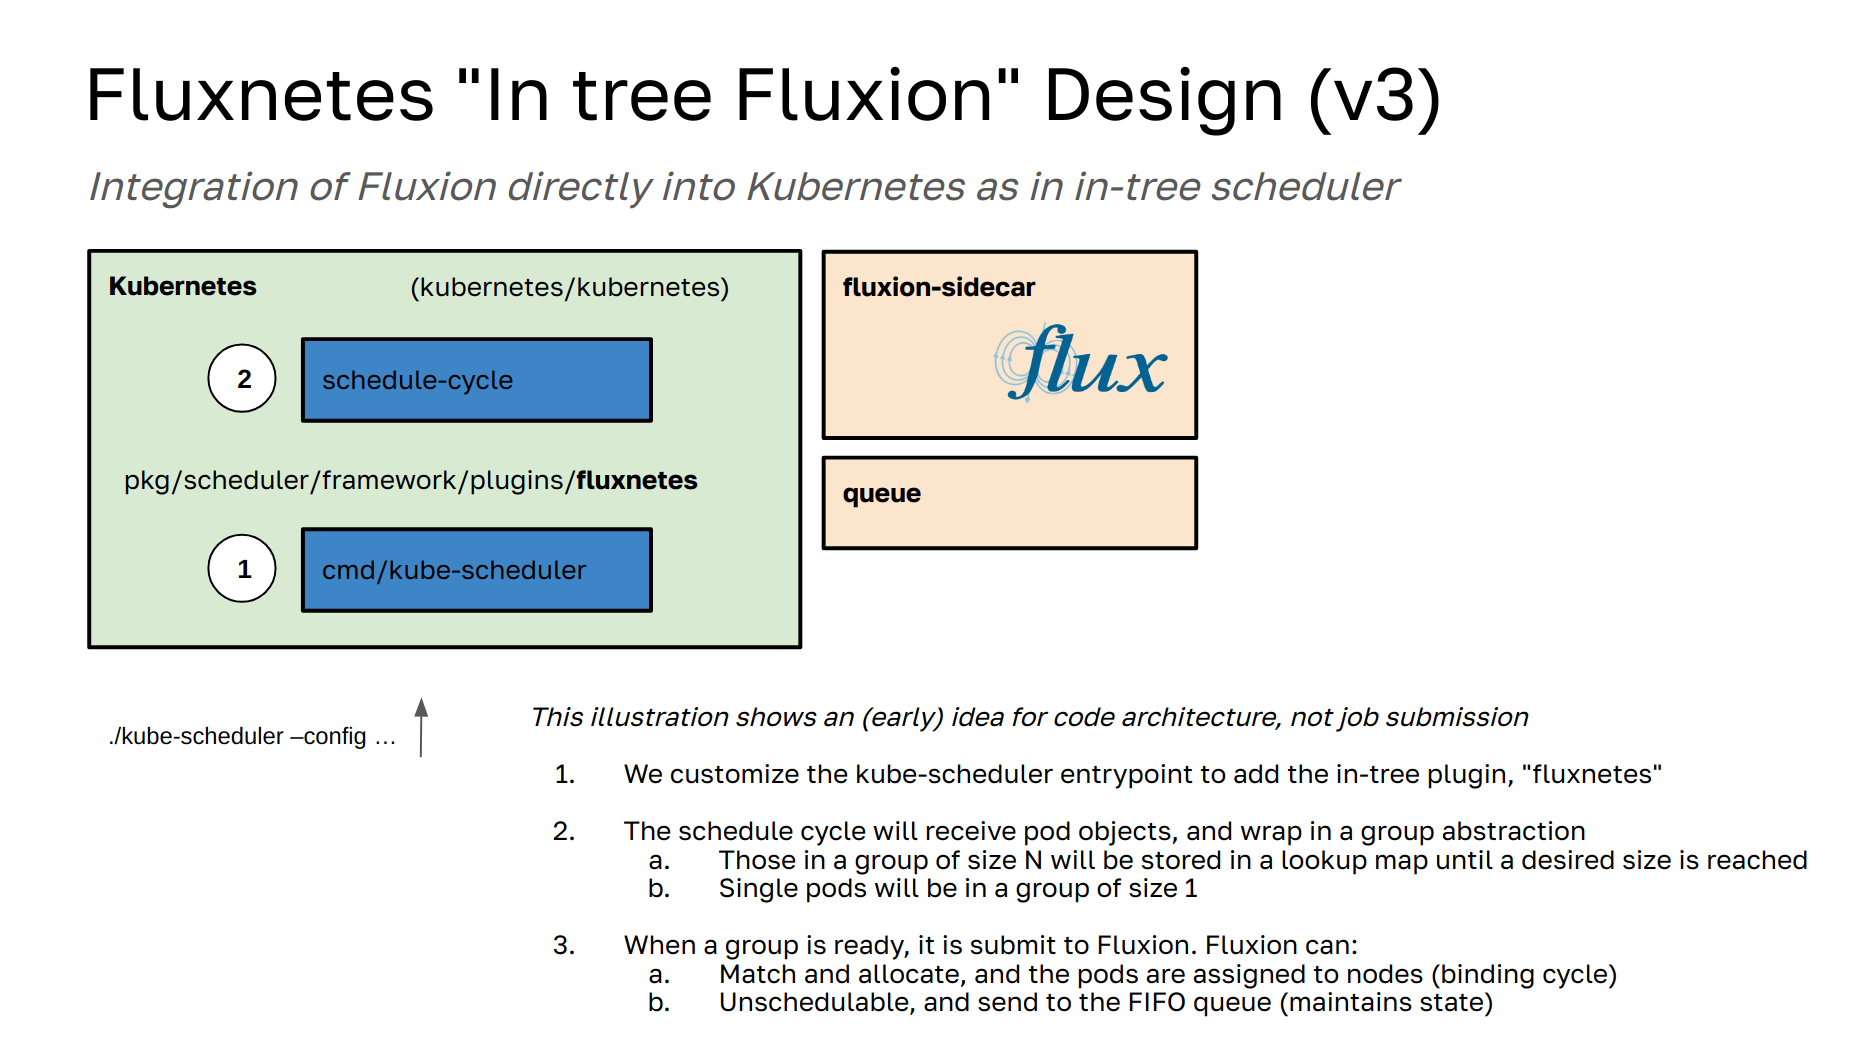
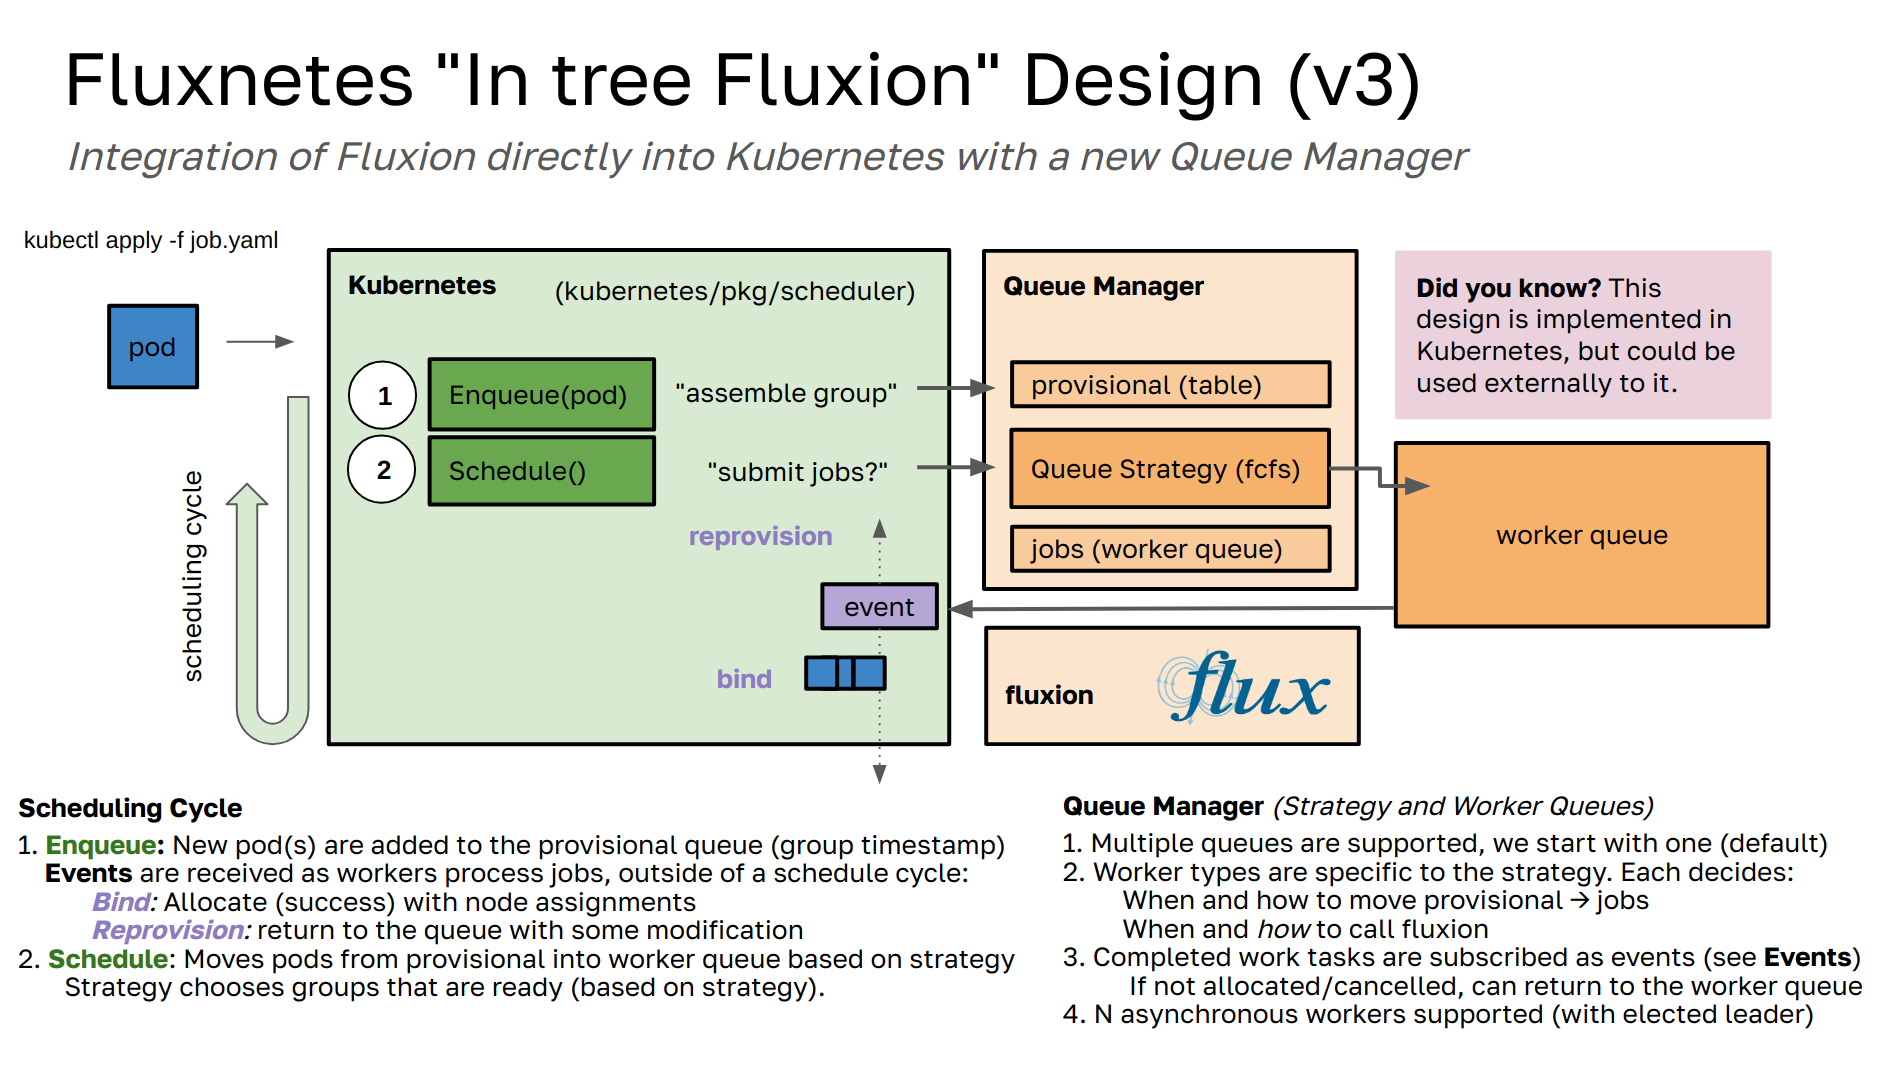
docs: add new design image and notes

diff --git a/kubernetes/pkg/fluxnetes/fluxnetes.go b/kubernetes/pkg/fluxnetes/fluxnetes.go
@@ -79,8 +79,8 @@ func (fluxnetes *Fluxnetes) Less(podInfo1, podInfo2 *framework.QueuedPodInfo) bo
 	// which is what fluxnetes needs to distinguish between namespaces. Just the
 	// name could be replicated between different namespaces
 	// TODO add some representation of PodGroup back
-	name1 := groups.GetPodGroupName(podInfo1.Pod)
-	name2 := groups.GetPodGroupName(podInfo2.Pod)
+	name1 := groups.GetPodGroupFullName(podInfo1.Pod)
+	name2 := groups.GetPodGroupFullName(podInfo2.Pod)
 
 	// Try for creation time first, and fall back to naming
 	creationTime1 := groups.GetPodCreationTimestamp(podInfo1.Pod)

diff --git a/kubernetes/pkg/fluxnetes/labels/labels.go b/kubernetes/pkg/fluxnetes/labels/labels.go
@@ -1,8 +1,6 @@
 package labels
 
 import (
-	"fmt"
-
 	v1 "k8s.io/api/core/v1"
 )
 
@@ -21,13 +19,4 @@ const (
 // GetPodGroupLabel get pod group name from pod labels
 func GetPodGroupLabel(pod *v1.Pod) string {
 	return pod.Labels[PodGroupLabel]
-}
-
-// GetPodGroupFullName get namespaced group name from pod labels
-func GetPodGroupFullName(pod *v1.Pod) string {
-	groupName := GetPodGroupLabel(pod)
-	if len(groupName) == 0 {
-		return ""
-	}
-	return fmt.Sprintf("%v/%v", pod.Namespace, groupName)
 }

diff --git a/kubernetes/pkg/fluxnetes/group/group.go b/kubernetes/pkg/fluxnetes/group/group.go
@@ -32,6 +32,13 @@ func GetPodGroupName(pod *corev1.Pod) string {
 	return groupName
 }
 
+// GetPodGroupFullName get namespaced group name from pod labels
+// This is primarily for sorting, so we consider namespace too.
+func GetPodGroupFullName(pod *corev1.Pod) string {
+	groupName := GetPodGroupName(pod)
+	return fmt.Sprintf("%v/%v", pod.Namespace, groupName)
+}
+
 // getPodGroupSize gets the group size, first from label then default of 1
 func GetPodGroupSize(pod *corev1.Pod) (int32, error) {
 

diff --git a/docs/README.md b/docs/README.md
@@ -2,12 +2,38 @@
 
 ## Design Notes
 
+> July 29, 2024
+
+Today we are merging in the "gut out and refactor" branch that does the following:
+
+ - Add Queue Manager (and queues design, shown and described below) 
+ - Remove what remains of Fluence (now Fluxnetes is just a shell to provide sort)
+ - Replace the default scheduler (schedulingCycle) with this approach (we still use bindingCycle)
+
+The new queue design is based on a producer consumer model in that there are  workers (the number of our choosing) each associated with different queues. The workers themselves can do different things, and this depends on both the queue and Queuing strategy (I say this because two different strategies can share a common worker design). Before we hit a worker queue, we have a provisional queue step. This means that:
+
+1. Incoming pods are added to a provisional table with their name, group, timestamp, and expected size.
+2. Pods are moved from the provisional table to the worker queue when they reach quorum (the minimum size)
+3. At this point, they go into the hands of a Queue Manager, ordered by their group timestamp.
+
+For the first that I've added, which I'm calling FCFS with backfill, the worker task does a call to fluxion, specifically a `MatchAllocate`. I am planning to change this to a `MatchAllocateElseReserve` so I can "snooze" the job to trigger again in the future given that it cannot be scheduled then and there. When the work is allocated, the metadata for the job (specifically args for "Nodes") is updated to carry the nodes forward to events that are listening for them. A subscription event is sent back to the main scheduler, which receives the nodes, and then performs binding. The pods are received as a group, meaning the binding of the group happens at the same time (in a loop, still one by one, but guaranteed to be in that order I think) and the work is run. Some (high level) work that still needs to be done:
+
+- The provisional queue hardened up to be provided (and exposed) as explicit interfaces (it is part of the main fluxnetes queue module now)
+- A pod label for an expected time (and a default time) could be used so every job has an expected end time (for Fluxion). A cancel queue would handle this.
+- The in-tree plugin outputs (needs for volumes, and what nodes can provide) needs to be exposed to Fluxion. Either fluxion can be told:
+  - "These nodes aren't possible for this work"
+  - "These are the only nodes you can consider for this work"
+  - "Here is a resource requirement you know about in your graph"
+
+There are more features that still need to be worked on and added (see the README.md of this repository) but this is a good start! One thing I am tickled by is that this does not need to be Kubernetes specific. It happens to be implemented within it, but the only detail that is relevant to Kubernetes is having a pod derive the underlying unit of work. All of the logic could be moved outside of it, with some other unit of work.
+
+![images/fluxnetes.png](images/fluxnetes.png)
+
 > July 10th, 2024
 
 Fluxnetes is functioning, on equal par with what fluence does to schedule and cancel pods. The difference is that I removed the webhook and controller to create PodGroup, and (for the time being) am relying on the user to create them. The reason is because I don't want to add the complexity of a new controller and webhook to Kubernetes. And instead of doing a custom CR (custom resource) for our PodGroup, I am using the one from coscheduling. THis allows install of the module without breaking smaller level dependencies. I'm not sure why that works, but it does!
 
 So the current state is that Fluxnetes is scheduling! My next step is to slowly add components for the new design, ensuring I don't break anything as I go, and going as far with that approach as I can until I need to swap it in. Then I'll likely need to be a bit more destructive and careful.
-
 
 > This was a group update on July 8th, 2024
 

diff --git a/README.md b/README.md
@@ -109,6 +109,7 @@ SELECT group_name, group_size from pods_provisional;
 - [ ] The queue should inherit (and return) the start time (when the pod was first seen) "start" in scheduler.go
 - [ ] The provisional -> scheduled should do a sort for the timestamp (I mostly just forgot this)!
 - [ ] when in basic working state, add back build and test workflows
+- [ ] There should be a label (or existing value in the pod) to indicate an expected completion time (this is for Fluxion). We can have a worker task that explicitly cleans up the pods when the job should be completed.
 - [x] remove fluence previous code
 
 ## License
